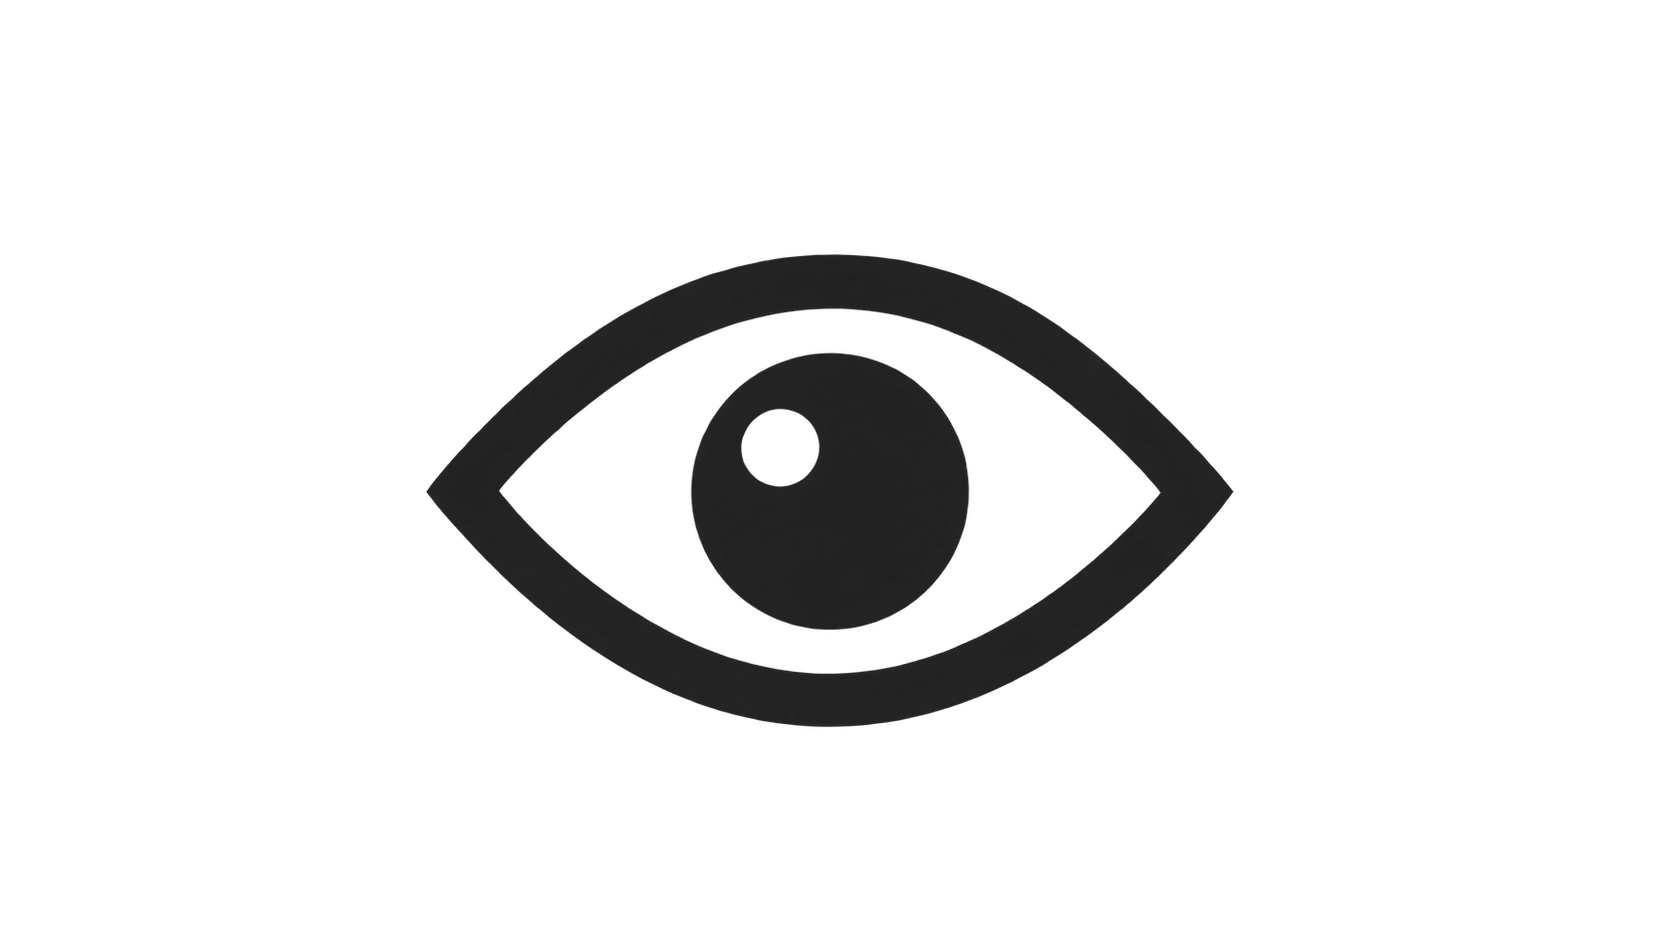
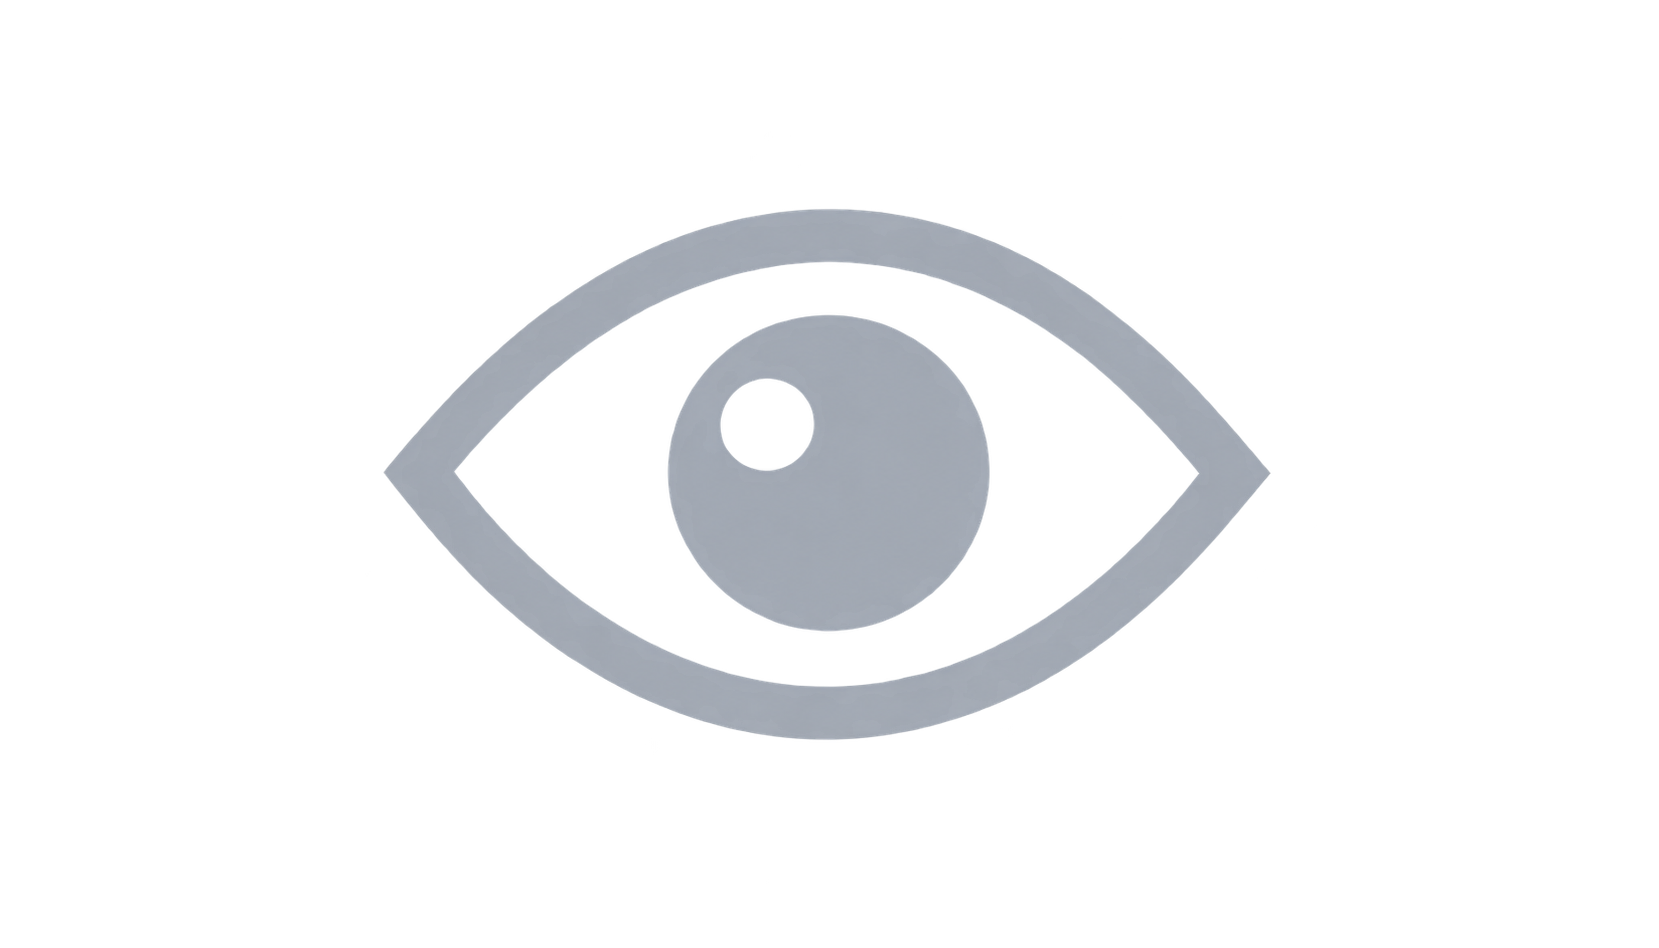
reajuste no css e ajustado posição do icone

Changed region(s): [[0.2152, 0.2141, 0.7685, 0.7954]]

diff --git a/JS/index.js b/JS/index.js
@@ -1,34 +1,34 @@
-const formulario = document.querySelector(".login")
+const formulario = document.querySelector(".login");
 
 const email = document.querySelector("#iemail");
 const senha = document.querySelector("#ipassword");
 
-formulario.addEventListener("submit", function(evento) {
+const mostrar = document.querySelector("#mostrar");
+const imagemOlho = mostrar.querySelector("img");
 
+
+formulario.addEventListener("submit", function(evento) {
     evento.preventDefault();
 
     const usuario = {
         email: email.value,
         senha: senha.value
     };
-
-    console.log(usuario)
+    console.log(usuario);
 });
+
 
 mostrar.addEventListener("click", function() {
 
-    const mostrar = document.querySelector("#mostrar");
-    const imagemOlho = mostrar.querySelector("img");
+    if (senha.type === "password") {
+        senha.type = "text";
 
-    if (ipassword.type === "password") {
-        ipassword.type = "text"
+        imagemOlho.src = "imgs/eye-on.png";
+        imagemOlho.classList.replace("eye-off", "eye-on");
+    } else {
+        senha.type = "password";
 
-        imagemOlho.src = "../imgs/eye-on.png"
-        imagemOlho.classList.replace("eye-off", "eye-on")
-    } else {    
-        ipassword.type = 'password'
-
-        imagemOlho.src = "../imgs/eye-off.svg"
-        imagemOlho.classList.replace("eye-on", "eye-off")
+        imagemOlho.src = "imgs/eye-off.svg";
+        imagemOlho.classList.replace("eye-on", "eye-off");
     }
-})
+});

diff --git a/estilos/style.css b/estilos/style.css
@@ -244,35 +244,39 @@ main {
 
 /* ÍCONE DE MOSTRAR SENHA */
 .login-box .box-password #mostrar {
-    position: absolute;
-/* 
-    background-image: url("../imgs/eye-off.svg");
-    background-repeat: no-repeat;
-    background-position: 18px center;
-    background-size: 4px; */
-    background-color: #4e4e4e00;
-
+    background-color: transparent;
     border: none;
-    box-shadow: none;
-
-    top: 43.8%;
-    left: 84%;
+    cursor: pointer;
 }
 
 .login-box .box-password #mostrar .eye-off {
+    position: absolute;
+
+    right: 15px;
+    top: 44.8%;
+    right: 13.7%;
+    transform: translate(-40%, -50%);
+
+    border: none;
+    background: transparent;
+
     height: 35px;
     width: 35px;
 }
 
 .login-box .box-password #mostrar .eye-on {
-    height: 50px;
-    width: 50px;
+    position: absolute;
 
-    top
-}
+    right: 15px;
+    top: 44.5%;
+    right: 12.5%;
+    transform: translate(-40%, -50%);
 
-.login-box .box-password #mostrar:hover {
-    cursor: pointer;
+    border: none;
+    background: transparent;
+
+    height: 35px;
+    width: auto;
 }
 
 /* ANIMAÇÃO INPUT */

diff --git a/estilos/tela-pc.css b/estilos/tela-pc.css
@@ -119,6 +119,43 @@ main {
     padding-left: 50px;
 }
 
+/* ÍCONE DE MOSTRAR SENHA */
+.login-box .box-password #mostrar {
+    background-color: transparent;
+    border: none;
+    cursor: pointer;
+}
+
+.login-box .box-password #mostrar .eye-off {
+    position: absolute;
+
+    right: 15px;
+    top: 42.5%;
+    right: 10.5%;
+    transform: translate(-40%, -50%);
+
+    border: none;
+    background: transparent;
+
+    height: 35px;
+    width: 35px;
+}
+
+.login-box .box-password #mostrar .eye-on {
+    position: absolute;
+
+    right: 15px;
+    top: 42%;
+    right: 9%;
+    transform: translate(-40%, -50%);
+
+    border: none;
+    background: transparent;
+
+    height: 35px;
+    width: auto;
+}
+
 
 /* =========================
    CHECKBOX
